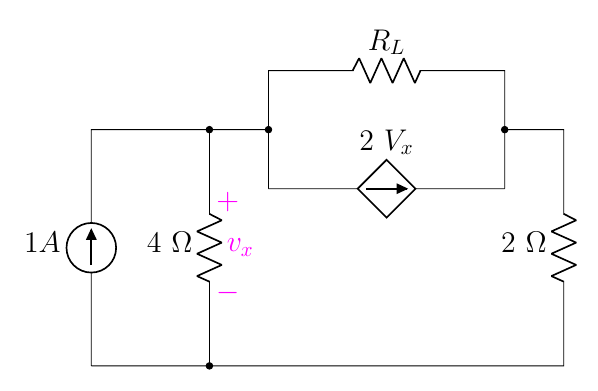
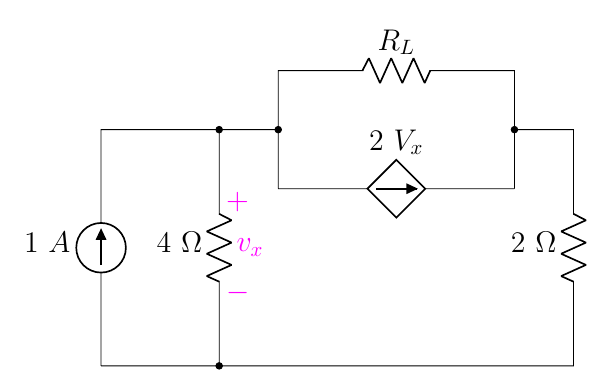
1.2

diff --git a/new assign/1.0 Thevenin/1.2.tex b/new assign/1.0 Thevenin/1.2.tex
@@ -4,7 +4,7 @@
     \input{../../preamble2.tex}
 
     \draw(0,0) 
-        to[I,l=$1A$] ++(0,4)
+        to[I,l=$1\ A$] ++(0,4)
         to[short] ++(2,0)
         to[R,l_=$4\ \Omega$,*-*] ++(0,-4)
         to[short] ++(-2,0) ++(2,4)
